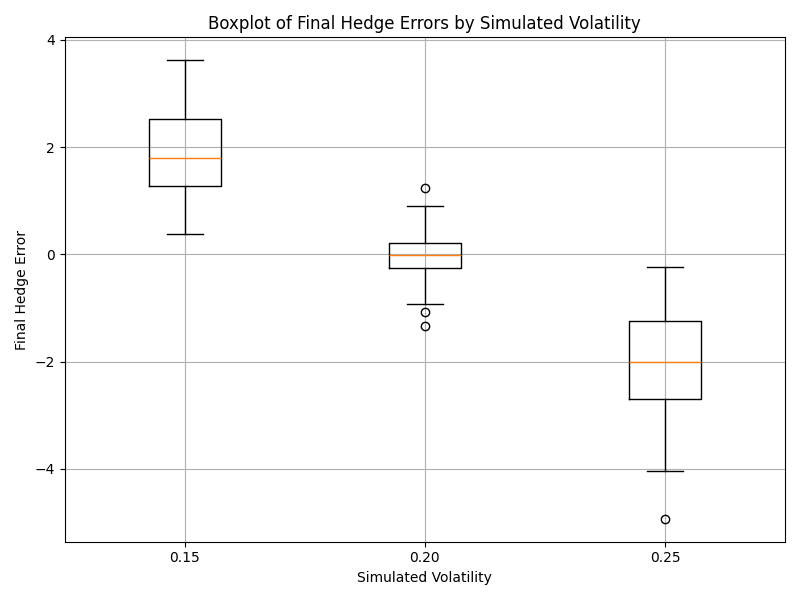
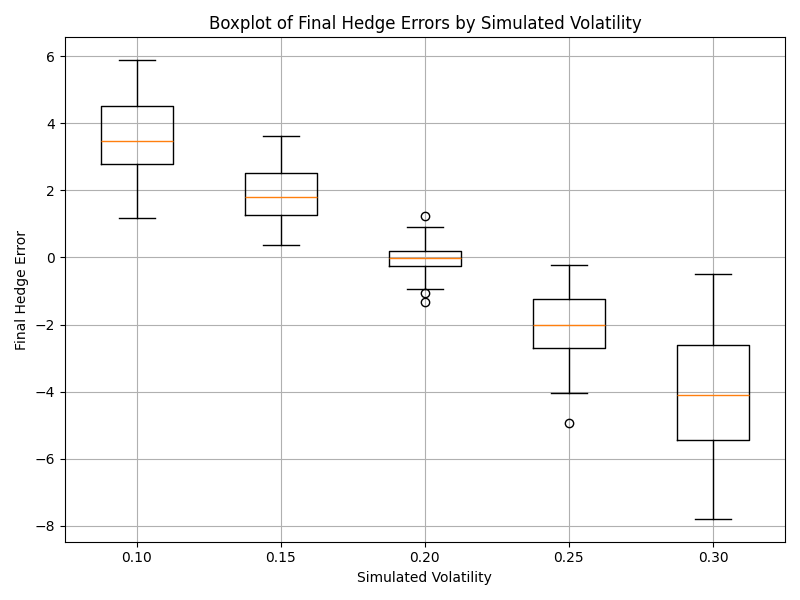
update part 3

diff --git a/src/Volatility Mismatch/volatility mismatch.py b/src/Volatility Mismatch/volatility mismatch.py
@@ -4,7 +4,7 @@ import matplotlib.pyplot as plt
 from scipy.stats import norm
 from tqdm import tqdm
 
-# Create folder "figures" if not exists.
+# Create folder "figures" if it doesn't exist.
 os.makedirs("figures", exist_ok=True)
 
 # -----------------------------
@@ -13,32 +13,46 @@ os.makedirs("figures", exist_ok=True)
 def black_scholes_price_and_delta(S, K, time_remaining, r, sigma):
     """
     Calculate European call option price and delta using the Black-Scholes formula.
+    
+    Parameters:
+        S: current asset price.
+        K: strike price.
+        time_remaining: time remaining until maturity (in years).
+        r: risk-free rate.
+        sigma: volatility.
+        
+    Returns:
+        price: option price.
+        delta: option delta.
     """
     if time_remaining < 1e-8:
         price = max(S - K, 0.0)
+        # At expiration, if S > K, delta=1; if S < K, delta=0; if S==K, we assign 0.5.
         delta = 1.0 if S > K else 0.0 if S < K else 0.5
         return price, delta
 
-    d1 = (np.log(S / K) + (r + 0.5 * sigma**2) * time_remaining) / (sigma * np.sqrt(time_remaining))
+    d1 = (np.log(S / K) + (r + 0.5 * sigma ** 2) * time_remaining) / (sigma * np.sqrt(time_remaining))
     d2 = d1 - sigma * np.sqrt(time_remaining)
     price = S * norm.cdf(d1) - K * np.exp(-r * time_remaining) * norm.cdf(d2)
     delta = norm.cdf(d1)
     return price, delta
 
 # -----------------------------
-# Object-Oriented Delta Hedging Simulator
+# Delta Hedging Simulator (Object-Oriented)
 # -----------------------------
 class DeltaHedgingSimulator:
     def __init__(self, initial_price, strike, T, r, pricing_vol, simulated_vol, sim_dt=1/2520):
         """
         Initialize the simulator.
-        :param initial_price: initial asset price.
-        :param strike: option strike.
-        :param T: maturity in years.
-        :param r: risk-free rate.
-        :param pricing_vol: volatility used for pricing and delta calculation.
-        :param simulated_vol: real volatility used for simulating the asset price path.
-        :param sim_dt: simulation time step.
+        
+        Parameters:
+            initial_price: initial asset price.
+            strike: option strike price.
+            T: maturity in years.
+            r: risk-free rate.
+            pricing_vol: volatility used for pricing and delta calculation.
+            simulated_vol: true volatility used for simulating the asset price path.
+            sim_dt: simulation time step.
         """
         self.initial_price = initial_price
         self.strike = strike
@@ -50,9 +64,14 @@ class DeltaHedgingSimulator:
 
     def simulate_asset_path(self, seed=None):
         """
-        Simulate asset price path under Geometric Brownian Motion.
-        :param seed: random seed.
-        :return: time array and asset price path.
+        Simulate an asset price path under Geometric Brownian Motion.
+        
+        Parameters:
+            seed: random seed (optional).
+            
+        Returns:
+            times: array of time points.
+            path: array of asset prices.
         """
         if seed is not None:
             np.random.seed(seed)
@@ -62,31 +81,41 @@ class DeltaHedgingSimulator:
         path[0] = self.initial_price
         for i in range(1, N + 1):
             Z = np.random.normal()
-            path[i] = path[i - 1] * np.exp((self.r - 0.5 * self.simulated_vol**2) * self.sim_dt +
+            path[i] = path[i - 1] * np.exp((self.r - 0.5 * self.simulated_vol ** 2) * self.sim_dt +
                                            self.simulated_vol * np.sqrt(self.sim_dt) * Z)
         return times, path
 
     def simulate_delta_hedge(self, hedge_interval, path_times=None, path_prices=None):
         """
         Simulate the delta hedging process for a call option.
-        :param hedge_interval: rebalancing interval (in years).
-        :param path_times: optional pre-generated time array.
-        :param path_prices: optional pre-generated asset price path.
-        :return: dictionary with hedge times, portfolio values, option values, delta values, and hedge errors.
+        
+        Parameters:
+            hedge_interval: time interval for rebalancing (in years).
+            path_times: optionally provide pre-generated time array.
+            path_prices: optionally provide pre-generated asset price path.
+            
+        Returns:
+            result: dictionary containing:
+                - hedge_times: time points when hedging occurred.
+                - portfolio_values: portfolio value at each hedge time.
+                - option_values: theoretical option price at each hedge time.
+                - delta_values: delta used at each hedge time.
+                - hedge_errors: difference between portfolio value and option price.
+                - final_error: final hedge error.
         """
         if path_times is None or path_prices is None:
             path_times, path_prices = self.simulate_asset_path()
 
         N_sim = len(path_times) - 1
-        # Determine rebalancing indices; ensure rebalancing at maturity.
+        # Determine rebalancing indices. Ensure final time point is included.
         hedge_indices = np.arange(0, N_sim + 1, int(hedge_interval / self.sim_dt))
         if hedge_indices[-1] != N_sim:
             hedge_indices = np.append(hedge_indices, N_sim)
 
-        # Initial hedge
+        # Initial hedge: Calculate option price and delta.
         option_price, delta = black_scholes_price_and_delta(self.initial_price, self.strike, self.T, self.r, self.pricing_vol)
         cash = option_price - delta * self.initial_price
-        position = delta
+        position = delta  # number of shares held
 
         hedge_times = []
         portfolio_values = []
@@ -97,7 +126,7 @@ class DeltaHedgingSimulator:
         for i, idx in enumerate(hedge_indices):
             curr_time = path_times[idx]
             remaining_time = self.T - curr_time
-            # Update cash: grow at risk-free rate
+            # Update cash with risk-free growth from the last hedge time.
             if i > 0:
                 dt_period = curr_time - path_times[hedge_indices[i - 1]]
                 cash *= np.exp(self.r * dt_period)
@@ -133,11 +162,18 @@ class DeltaHedgingSimulator:
     def run_multiple_simulations(simulator, hedge_interval, num_simulations, seed_offset=0):
         """
         Run multiple Monte Carlo simulations for a given hedging interval.
-        :param simulator: an instance of DeltaHedgingSimulator.
-        :param hedge_interval: rebalancing interval.
-        :param num_simulations: number of simulation runs.
-        :param seed_offset: seed offset for reproducibility.
-        :return: tuple (array of final hedge errors, time path of error, error path of the first simulation).
+        
+        Parameters:
+            simulator: an instance of DeltaHedgingSimulator.
+            hedge_interval: rebalancing interval (in years).
+            num_simulations: number of simulation runs.
+            seed_offset: offset for random seeds for reproducibility.
+            
+        Returns:
+            A tuple containing:
+                - final_errors: array of final hedge errors from each simulation.
+                - one_time_path: hedge time path from the first simulation.
+                - one_error_path: hedge error path from the first simulation.
         """
         final_errors = []
         one_error_path = None
@@ -157,7 +193,16 @@ class DeltaHedgingSimulator:
     def run_simulations_volatility_mismatch(initial_price, strike, T, r, pricing_vol, simulated_vol_list, hedge_interval, num_simulations):
         """
         Run simulations to study the effect of different true volatilities (volatility mismatch).
-        :return: dictionary with key as simulated volatility and value as an array of final hedge errors.
+        
+        Parameters:
+            initial_price, strike, T, r, pricing_vol: parameters for delta hedging.
+            simulated_vol_list: list of different true volatilities to simulate.
+            hedge_interval: hedging interval (in years).
+            num_simulations: number of simulation runs for each volatility.
+            
+        Returns:
+            A dictionary where each key is a simulated volatility and the value is an array 
+            of final hedge errors obtained from the simulations.
         """
         results = {}
         for sim_vol in simulated_vol_list:
@@ -170,49 +215,49 @@ class DeltaHedgingSimulator:
 # Main Simulation and Visualization
 # -----------------------------
 if __name__ == '__main__':
-    # Parameters
-    initial_price = 100.0   # Initial asset price
-    strike = 99.0           # Option strike price
-    T = 1.0                 # Maturity in years
-    r = 0.06                # Risk-free rate
-    pricing_vol = 0.20      # Volatility used for pricing/delta calculation
-    simulated_vol = 0.20    # True volatility for simulation
-    sim_dt = 1/2520         # Simulation time step
+    # Parameters for simulation.
+    initial_price = 100.0     # Initial asset price.
+    strike = 99.0             # Option strike price.
+    T = 1.0                   # Maturity in years.
+    r = 0.06                  # Risk-free rate.
+    pricing_vol = 0.20        # Volatility used for pricing/delta calculation.
+    simulated_vol = 0.20      # True volatility for simulation.
+    sim_dt = 1/2520           # Simulation time step.
 
-    # Create simulator instance
+    # Create a simulator instance.
     simulator = DeltaHedgingSimulator(initial_price, strike, T, r, pricing_vol, simulated_vol, sim_dt)
 
     # -----------------------------
     # Task 1: Hedging Frequency Comparison
     # -----------------------------
-    daily_interval = 1/252  # Daily hedging
-    weekly_interval = 1/52  # Weekly hedging
-    num_simulations = 100   # Number of Monte Carlo simulations
+    daily_interval = 1/252    # Daily hedging.
+    weekly_interval = 1/52    # Weekly hedging.
+    num_simulations = 100     # Number of Monte Carlo simulations.
 
-    # Run simulations for daily and weekly hedging, and get one error path from the first simulation for each.
+    # Run simulations for daily and weekly hedging; obtain one error path (from the first simulation) for visualization.
     daily_errors, daily_time_path, daily_error_path = DeltaHedgingSimulator.run_multiple_simulations(
         simulator, daily_interval, num_simulations)
     weekly_errors, weekly_time_path, weekly_error_path = DeltaHedgingSimulator.run_multiple_simulations(
         simulator, weekly_interval, num_simulations)
 
-    # Plot three histograms in one canvas:
+    # --- Task 1 Plot: Three histograms in one canvas ---
     plt.figure(figsize=(18, 5))
 
-    # Histogram for Daily Hedging final error.
+    # Subplot 1: Histogram for Daily Hedging final error.
     plt.subplot(1, 3, 1)
     plt.hist(daily_errors, bins=30, color='skyblue', edgecolor='black')
     plt.title('Daily Hedging Final Error')
     plt.xlabel('Final Hedge Error')
     plt.ylabel('Frequency')
 
-    # Histogram for Weekly Hedging final error.
+    # Subplot 2: Histogram for Weekly Hedging final error.
     plt.subplot(1, 3, 2)
     plt.hist(weekly_errors, bins=30, color='salmon', edgecolor='black')
     plt.title('Weekly Hedging Final Error')
     plt.xlabel('Final Hedge Error')
     plt.ylabel('Frequency')
 
-    # Overlayed Histogram for Daily and Weekly hedging.
+    # Subplot 3: Overlayed histogram for Daily and Weekly hedging.
     plt.subplot(1, 3, 3)
     plt.hist(daily_errors, bins=30, alpha=0.6, color='skyblue', label='Daily Hedging', edgecolor='black')
     plt.hist(weekly_errors, bins=30, alpha=0.6, color='salmon', label='Weekly Hedging', edgecolor='black')
@@ -224,7 +269,7 @@ if __name__ == '__main__':
     plt.savefig("figures/task1_histograms.png")
     plt.show()
 
-    # Additionally, plot the error path over time (one simulation) for daily vs. weekly hedging.
+    # --- Task 1 Plot: Hedging Error Path Over Time (from one simulation) ---
     plt.figure(figsize=(12, 5))
     plt.plot(daily_time_path, daily_error_path, marker='o', label='Daily Hedging Error Path')
     plt.plot(weekly_time_path, weekly_error_path, marker='o', label='Weekly Hedging Error Path')
@@ -238,27 +283,42 @@ if __name__ == '__main__':
     plt.show()
 
     # -----------------------------
-    # Task 2: Volatility Mismatch Experiment 
+    # Task 2: Volatility Mismatch Experiment
     # -----------------------------
-    simulated_vol_list = [0.15, 0.20, 0.25]
+    # Use 5 different model volatilities.
+    simulated_vol_list = [0.10, 0.15, 0.20, 0.25, 0.30]
     mismatch_results = DeltaHedgingSimulator.run_simulations_volatility_mismatch(
         initial_price, strike, T, r, pricing_vol, simulated_vol_list, daily_interval, num_simulations)
 
-    # (1) Histogram for each simulated volatility case, formatted in one row with 3 subplots.
-    plt.figure(figsize=(18, 5))
+    # --- (1) Plot 5 individual histograms and 1 overlayed histogram in a single canvas (6 subplots) ---
+    plt.figure(figsize=(24, 12))
+    # First 5 subplots: individual histograms.
     for i, sim_vol in enumerate(simulated_vol_list):
+        plt.subplot(2, 3, i + 1)
         errors = mismatch_results[sim_vol]
-        plt.subplot(1, 3, i + 1)
         plt.hist(errors, bins=30, color='lightgreen', edgecolor='black', alpha=0.8)
         plt.title(f'Model Vol = {sim_vol:.2f}\n(True Vol = {pricing_vol:.2f})', fontsize=14)
         plt.xlabel('Final Hedge Error', fontsize=12)
         plt.ylabel('Frequency', fontsize=12)
         plt.grid(True)
+
+    # 6th subplot: Overlayed histogram for all 5 cases.
+    plt.subplot(2, 3, 6)
+    colors = ['blue', 'green', 'red', 'purple', 'orange']
+    for i, sim_vol in enumerate(simulated_vol_list):
+        errors = mismatch_results[sim_vol]
+        plt.hist(errors, bins=30, alpha=0.5, color=colors[i],
+                 label=f'Model Vol = {sim_vol:.2f}', edgecolor='black')
+    plt.title('Overlayed Hedge Errors', fontsize=14)
+    plt.xlabel('Final Hedge Error', fontsize=12)
+    plt.ylabel('Frequency', fontsize=12)
+    plt.legend()
+    plt.grid(True)
     plt.tight_layout()
     plt.savefig("figures/task2_histograms.png")
     plt.show()
 
-    # (2) Boxplot for final hedge errors across different simulated volatilities.
+    # --- (2) Plot Boxplot for final hedge errors across different simulated volatilities ---
     plt.figure(figsize=(8, 6))
     data_box = [mismatch_results[vol] for vol in simulated_vol_list]
     plt.boxplot(data_box, labels=[f'{vol:.2f}' for vol in simulated_vol_list])
@@ -270,7 +330,7 @@ if __name__ == '__main__':
     plt.savefig("figures/task2_boxplot.png")
     plt.show()
 
-    # (3) Scatter plot with error bars (mean ± std) for different simulated volatilities.
+    # --- (3) Plot Scatter Plot with error bars (mean ± std) for different simulated volatilities ---
     means = [np.mean(mismatch_results[v]) for v in simulated_vol_list]
     stds = [np.std(mismatch_results[v]) for v in simulated_vol_list]
     plt.figure(figsize=(8, 6))
